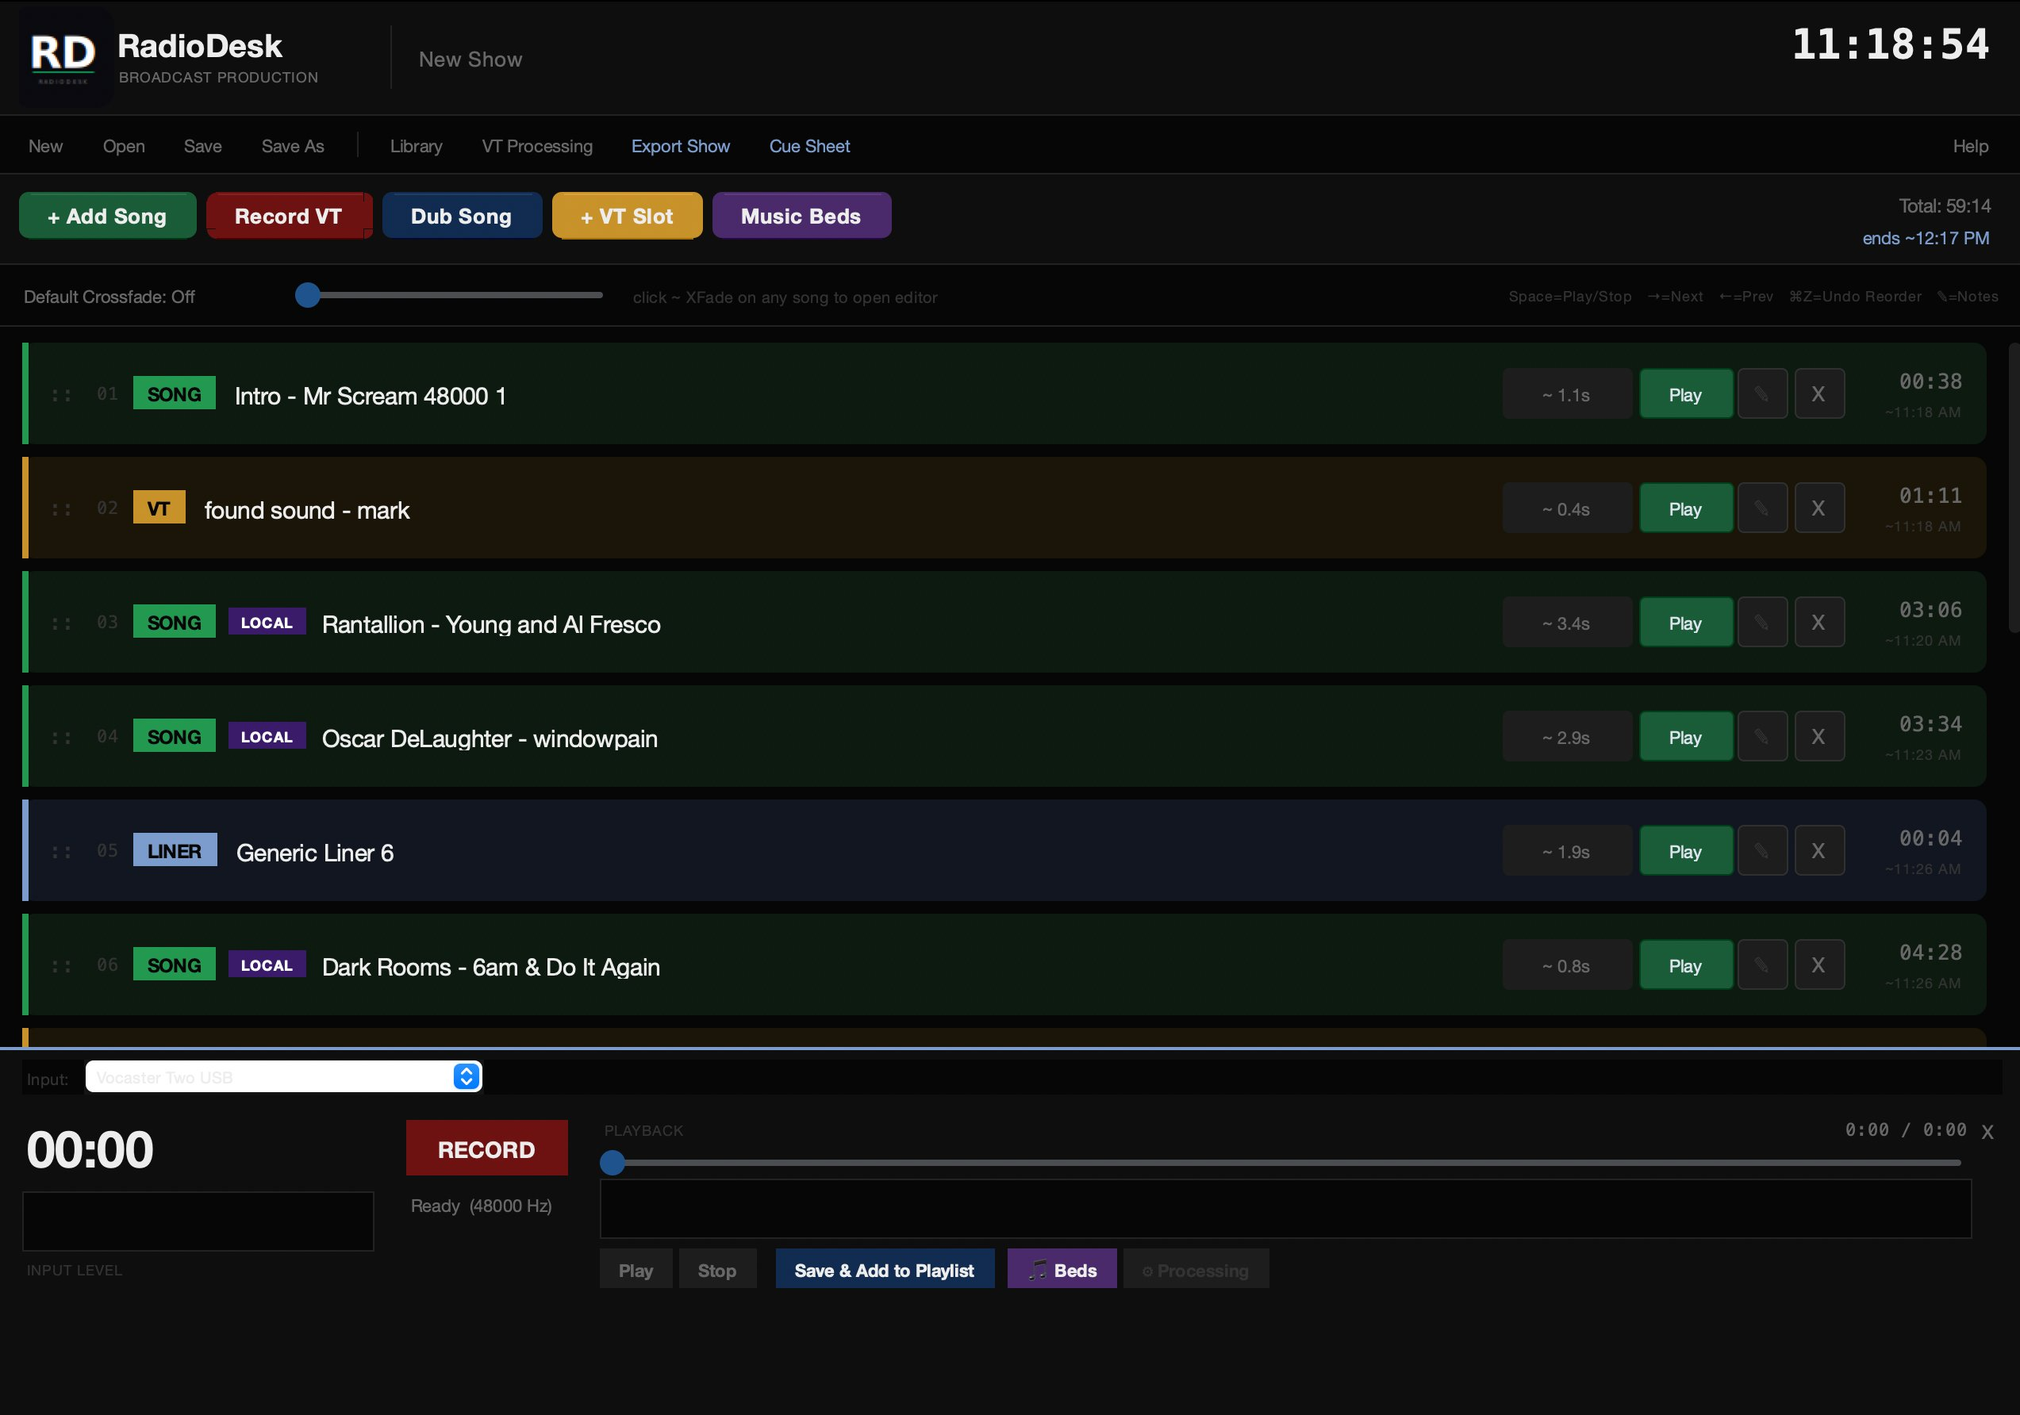
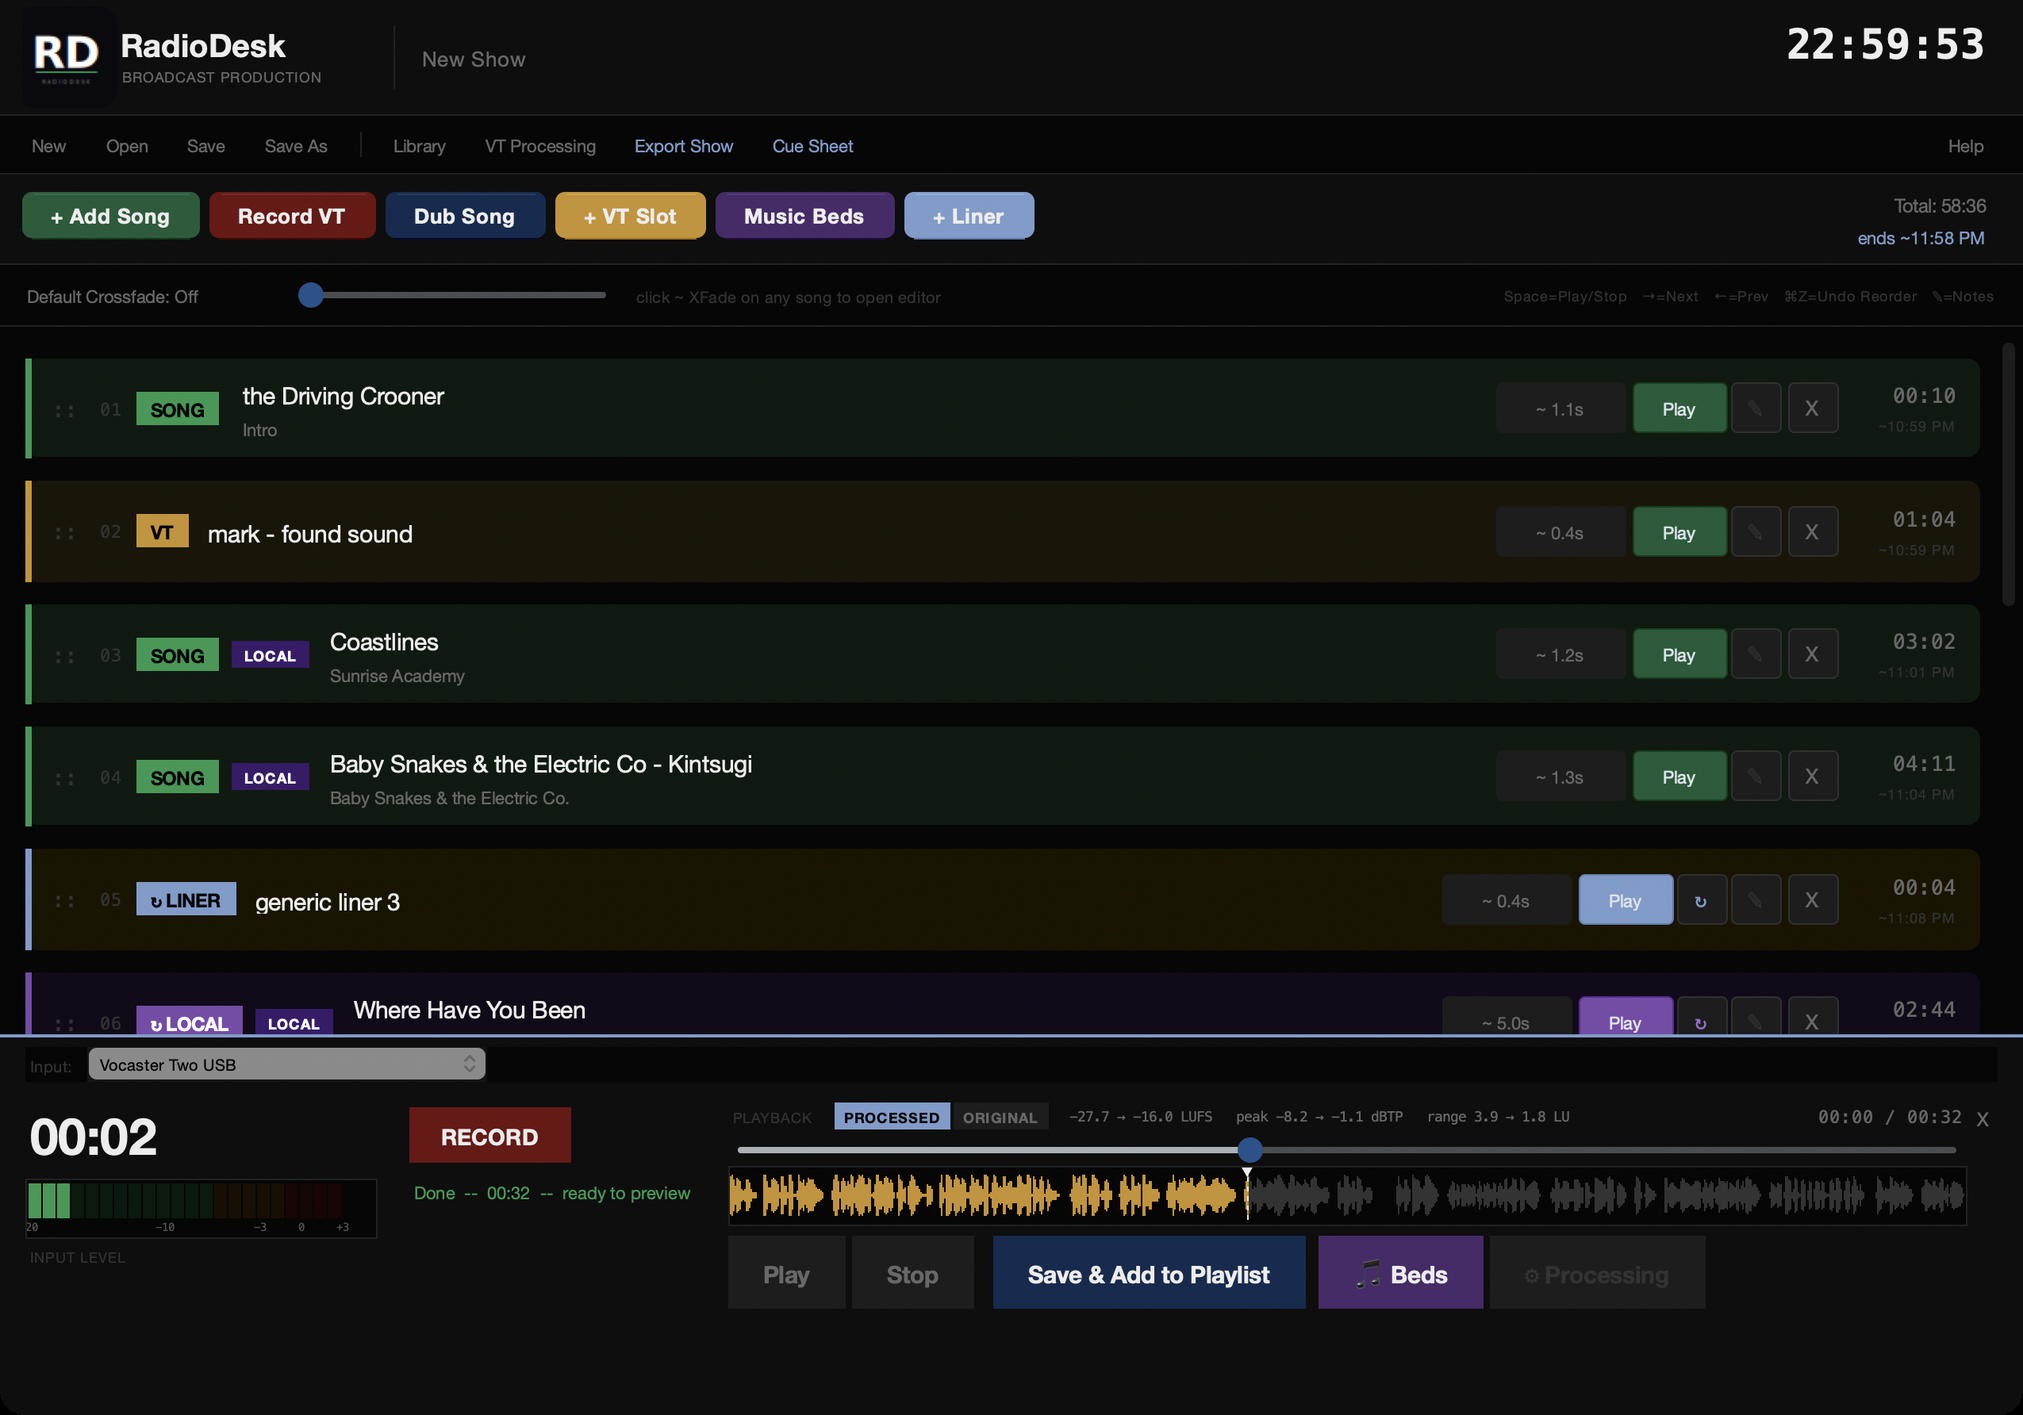
RadioDesk 1.2: voice processing, talk-break artist notes, new screenshots
- Homepage: three new feature cards (Broadcast Voice Processing, Processed
  vs. Original, Talk-Break Artist Notes); segue editor card describes the
  three-lane liner view; offline card notes the optional artist look-up.
- Screenshots: segue editor and recorder retaken from 1.2; new shots of the
  Voice Processing window and the talk-break notes popup.
- FAQ: new "Voice Processing & Artist Notes" section (six questions,
  including what the look-up sends), mirrored in the FAQ structured data.
- softwareVersion 1.0 -> 1.2.

diff --git a/faq.html b/faq.html
@@ -131,6 +131,54 @@
         "@type": "Answer",
         "text": "This can happen with large audio files on slower machines. Try closing other apps to free up memory. WAV files generally play more smoothly than MP3s because they don't require real-time decoding."
       }
+    },
+    {
+      "@type": "Question",
+      "name": "What does Voice Processing do to my voice tracks?",
+      "acceptedAnswer": {
+        "@type": "Answer",
+        "text": "It brings every voice track to the same loudness, steadies your level if you lean in or drift off the mic, removes rumble and room noise between phrases, softens harsh 's' sounds, and holds peaks under a ceiling so the track can't clip. You choose the loudness, how much compression, and a Natural, Bright or Broadcast tone. Open it from VT Processing in the menu bar or the Processing button in the recorder."
+      }
+    },
+    {
+      "@type": "Question",
+      "name": "Can I hear my voice track with and without processing?",
+      "acceptedAnswer": {
+        "@type": "Answer",
+        "text": "Yes. Your original recording is always kept. After a take, the recorder shows a PROCESSED and ORIGINAL switch — click either side, even while it's playing, to compare. It also shows the loudness, peak and range before and after. Whichever version is selected is the one that gets saved. If you change a processing setting, the take in the recorder is re-processed when you click Done, so you don't need to re-record."
+      }
+    },
+    {
+      "@type": "Question",
+      "name": "How do I match my voice level to my music?",
+      "acceptedAnswer": {
+        "@type": "Answer",
+        "text": "Load your show, open VT Processing, and click Match my show's music. RadioDesk measures the songs in your playlist and sets your voice one loudness unit above their average, so talk breaks sit just in front of the music. You can also set the loudness yourself with the slider; -16 LUFS suits most shows."
+      }
+    },
+    {
+      "@type": "Question",
+      "name": "What is the artist look-up, and what does it send over the internet?",
+      "acceptedAnswer": {
+        "@type": "Answer",
+        "text": "On any song row, the notes button can look up where the artist is from, their latest and upcoming releases, a short bio, recent stories and interviews, and tour-date links. It is off until you turn it on. When it's on, only the artist name and song title are sent — nothing about you, your library or your show. Facts come from MusicBrainz and Wikipedia; headlines come from Stereogum and the Dallas Observer. Results are saved on your Mac, so a song you play often is only looked up about once a week. Everything else in RadioDesk works without an internet connection."
+      }
+    },
+    {
+      "@type": "Question",
+      "name": "The artist info is wrong or missing. Why?",
+      "acceptedAnswer": {
+        "@type": "Answer",
+        "text": "The facts come from volunteer-edited sources, so brand-new and very local acts are sometimes missing or thin, and details can be out of date. If more than one artist shares a name, RadioDesk asks which one you mean instead of guessing — use Wrong artist? to choose again. Headlines are matched by name, so check the date and that the story is about your artist. Treat everything as a starting point and double-check before you say it on air."
+      }
+    },
+    {
+      "@type": "Question",
+      "name": "Can RadioDesk show upcoming concerts in my city?",
+      "acceptedAnswer": {
+        "@type": "Answer",
+        "text": "Set your market in the notes popup (for example, Dallas Fort Worth) and RadioDesk adds a one-click search for that artist's shows near you, plus a tour-dates link. These open in your web browser. There are also one-click searches for the artist on Stereogum, Pitchfork, SPIN, the Dallas Observer, D Magazine and Bandsintown."
+      }
     }
   ]
 }
@@ -245,6 +293,7 @@
     <a href="#playback" class="cat-btn">Playback &amp; Audio</a>
     <a href="#files" class="cat-btn">Files &amp; Formats</a>
     <a href="#library" class="cat-btn">Library &amp; Categories</a>
+    <a href="#voice-and-notes" class="cat-btn">Voice Processing &amp; Artist Notes</a>
     <a href="#troubleshooting" class="cat-btn">Troubleshooting</a>
   </div>
 
@@ -471,6 +520,59 @@
         <span class="faq-icon">+</span>
       </button>
       <div class="faq-a">Open the library, click <strong>✎</strong> on the song, and choose <strong>Local</strong> from the Category dropdown. Local songs also appear when you filter by the Local category and are eligible for Local category slots. Removing the Local category from a song removes it from the Local pool as well.</div>
+    </div>
+  </section>
+
+  <!-- VOICE PROCESSING & ARTIST NOTES -->
+  <section class="faq-section" id="voice-and-notes">
+    <h2 class="faq-section-title">Voice Processing &amp; Artist Notes</h2>
+
+    <div class="faq-item">
+      <button class="faq-q" onclick="toggle(this)">
+        <span class="faq-q-text">What does Voice Processing do to my voice tracks?</span>
+        <span class="faq-icon">+</span>
+      </button>
+      <div class="faq-a">It brings every voice track to the same loudness, steadies your level if you lean in or drift off the mic, removes rumble and room noise between phrases, softens harsh 's' sounds, and holds peaks under a ceiling so the track can't clip. You choose the loudness, how much compression, and a Natural, Bright or Broadcast tone. Open it from VT Processing in the menu bar or the Processing button in the recorder.</div>
+    </div>
+
+    <div class="faq-item">
+      <button class="faq-q" onclick="toggle(this)">
+        <span class="faq-q-text">Can I hear my voice track with and without processing?</span>
+        <span class="faq-icon">+</span>
+      </button>
+      <div class="faq-a">Yes. Your original recording is always kept. After a take, the recorder shows a PROCESSED and ORIGINAL switch — click either side, even while it's playing, to compare. It also shows the loudness, peak and range before and after. Whichever version is selected is the one that gets saved. If you change a processing setting, the take in the recorder is re-processed when you click Done, so you don't need to re-record.</div>
+    </div>
+
+    <div class="faq-item">
+      <button class="faq-q" onclick="toggle(this)">
+        <span class="faq-q-text">How do I match my voice level to my music?</span>
+        <span class="faq-icon">+</span>
+      </button>
+      <div class="faq-a">Load your show, open VT Processing, and click Match my show's music. RadioDesk measures the songs in your playlist and sets your voice one loudness unit above their average, so talk breaks sit just in front of the music. You can also set the loudness yourself with the slider; -16 LUFS suits most shows.</div>
+    </div>
+
+    <div class="faq-item">
+      <button class="faq-q" onclick="toggle(this)">
+        <span class="faq-q-text">What is the artist look-up, and what does it send over the internet?</span>
+        <span class="faq-icon">+</span>
+      </button>
+      <div class="faq-a">On any song row, the notes button can look up where the artist is from, their latest and upcoming releases, a short bio, recent stories and interviews, and tour-date links. It is off until you turn it on. When it's on, only the artist name and song title are sent — nothing about you, your library or your show. Facts come from MusicBrainz and Wikipedia; headlines come from Stereogum and the Dallas Observer. Results are saved on your Mac, so a song you play often is only looked up about once a week. Everything else in RadioDesk works without an internet connection.</div>
+    </div>
+
+    <div class="faq-item">
+      <button class="faq-q" onclick="toggle(this)">
+        <span class="faq-q-text">The artist info is wrong or missing. Why?</span>
+        <span class="faq-icon">+</span>
+      </button>
+      <div class="faq-a">The facts come from volunteer-edited sources, so brand-new and very local acts are sometimes missing or thin, and details can be out of date. If more than one artist shares a name, RadioDesk asks which one you mean instead of guessing — use Wrong artist? to choose again. Headlines are matched by name, so check the date and that the story is about your artist. Treat everything as a starting point and double-check before you say it on air.</div>
+    </div>
+
+    <div class="faq-item">
+      <button class="faq-q" onclick="toggle(this)">
+        <span class="faq-q-text">Can RadioDesk show upcoming concerts in my city?</span>
+        <span class="faq-icon">+</span>
+      </button>
+      <div class="faq-a">Set your market in the notes popup (for example, Dallas Fort Worth) and RadioDesk adds a one-click search for that artist's shows near you, plus a tour-dates link. These open in your web browser. There are also one-click searches for the artist on Stereogum, Pitchfork, SPIN, the Dallas Observer, D Magazine and Bandsintown.</div>
     </div>
   </section>
 

diff --git a/index.html b/index.html
@@ -32,7 +32,7 @@
     "priceCurrency": "USD"
   },
   "description": "RadioDesk is professional broadcast production software for Mac. Features include a DAW-style crossfade and segue editor, waveform display with playhead, multi-track audio management, cue sheet export, and local artist tagging. One-time purchase, no subscription.",
-  "softwareVersion": "1.0",
+  "softwareVersion": "1.2",
   "fileSize": "500MB",
   "downloadUrl": "https://radiodesk.gumroad.com/l/okdkvp",
   "screenshot": "https://radiodesk.app/screenshot.png",
@@ -157,6 +157,8 @@
   .screenshot-link:hover::after { opacity: 1; }
   .screenshot-img { width: 100%; border: 1px solid var(--border); display: block; border-radius: 4px; transition: border-color 0.2s; }
   .screenshot-link:hover .screenshot-img { border-color: var(--green); }
+  /* tall pop-up windows: thumbnail cropped to the same shape as the others; the lightbox shows the whole thing */
+  .screenshot-img.portrait { aspect-ratio: 2550 / 1784; object-fit: cover; object-position: top center; }
   .screenshot-cap { font-family: 'DM Mono', monospace; font-size: 10px; letter-spacing: 1px; color: var(--gray); }
 
   /* LIGHTBOX */
@@ -292,7 +294,7 @@
     <article class="feature-card">
       <div class="feature-num">01</div>
       <h3 class="feature-title">DAW-Style Crossfade &amp; Segue Editor</h3>
-      <p class="feature-desc">Set in and out points visually, control duck depth, and preview transitions before your show. The same smooth handoff as a professional broadcast console.</p>
+      <p class="feature-desc">Drag waveforms to set exactly where the next element starts, then preview the transition before your show. Click a liner or sweeper and a third lane appears, so you can set the way in and the way out in one view. What you preview is what you export.</p>
     </article>
     <article class="feature-card">
       <div class="feature-num">02</div>
@@ -317,7 +319,7 @@
     <article class="feature-card">
       <div class="feature-num">06</div>
       <h3 class="feature-title">Native Mac App · No Subscription</h3>
-      <p class="feature-desc">One-time purchase. No account required, no cloud dependency, no monthly fee. RadioDesk lives on your machine and works offline, always.</p>
+      <p class="feature-desc">One-time purchase. No account required, no cloud dependency, no monthly fee. RadioDesk lives on your machine and works offline. The only feature that goes online is the optional artist look-up, and it stays off until you turn it on.</p>
     </article>
     <article class="feature-card">
       <div class="feature-num">07</div>
@@ -349,6 +351,21 @@
       <h3 class="feature-title">Play Count</h3>
       <p class="feature-desc">Every song tracks how many times it's been added to a show. Sort your library by play count to see what's getting heavy rotation — and what's been sitting on the shelf.</p>
     </article>
+    <article class="feature-card">
+      <div class="feature-num">13</div>
+      <h3 class="feature-title">Broadcast Voice Processing</h3>
+      <p class="feature-desc">Every voice track lands at the same loudness, with your level steadied, the room cleaned up and peaks held under a ceiling so it can't clip. Choose a Natural, Bright or Broadcast tone, and match your voice to your show's music with one click.</p>
+    </article>
+    <article class="feature-card">
+      <div class="feature-num">14</div>
+      <h3 class="feature-title">Processed vs. Original</h3>
+      <p class="feature-desc">Your raw take is always kept. Flip between PROCESSED and ORIGINAL while it plays, see the before-and-after loudness and peak numbers, and save whichever one you prefer. Music beds are kept separate from your voice, so processing never pumps the music.</p>
+    </article>
+    <article class="feature-card">
+      <div class="feature-num">15</div>
+      <h3 class="feature-title">Talk-Break Artist Notes</h3>
+      <p class="feature-desc">Open the notes on any song to see where the artist is from, their latest and upcoming releases, a short bio, recent stories and interviews, and tour-date links for your market. Add the facts to your notes with one click. Off until you turn it on.</p>
+    </article>
   </div>
 </section>
 
@@ -367,16 +384,28 @@
       <figcaption class="screenshot-cap">Main playlist interface</figcaption>
     </figure>
     <figure class="screenshot-fig">
-      <a class="screenshot-link" onclick="openLightbox('screenshot-segue.png','Segue Editor — set crossfade overlap and duck depth visually')">
-        <img src="screenshot-segue.png" alt="RadioDesk Segue Editor showing waveform overlap, duck depth slider at -14dB, and Preview Segue button" class="screenshot-img">
+      <a class="screenshot-link" onclick="openLightbox('screenshot-segue.png','Segue Editor — a liner between two songs, both transitions in one view')">
+        <img src="screenshot-segue.png" alt="RadioDesk Segue Editor showing three waveform lanes: the end of a song, a liner, and the start of the next song, with overlap handles and a Preview Segue button" class="screenshot-img">
       </a>
-      <figcaption class="screenshot-cap">Segue Editor — set crossfade overlap and duck depth visually</figcaption>
+      <figcaption class="screenshot-cap">Segue Editor — a liner between two songs, both transitions in one view</figcaption>
     </figure>
     <figure class="screenshot-fig">
-      <a class="screenshot-link" onclick="openLightbox('screenshot-record.png','Voice track recording panel')">
-        <img src="screenshot-record.png" alt="RadioDesk Record VT panel with input device selector, record button, and waveform playback" class="screenshot-img">
+      <a class="screenshot-link" onclick="openLightbox('screenshot-record.png','Voice track recorder — processed vs. original, with before and after loudness')">
+        <img src="screenshot-record.png" alt="RadioDesk Record VT panel showing a recorded take with a PROCESSED and ORIGINAL switch and loudness, peak and range measurements before and after processing" class="screenshot-img">
       </a>
-      <figcaption class="screenshot-cap">Voice track recording panel</figcaption>
+      <figcaption class="screenshot-cap">Voice track recorder — processed vs. original, with before and after loudness</figcaption>
+    </figure>
+    <figure class="screenshot-fig">
+      <a class="screenshot-link" onclick="openLightbox('screenshot-voice.png','Voice processing — loudness, compression, tone and clean-up')">
+        <img src="screenshot-voice.png" alt="RadioDesk Voice Track Processing settings: loudness target, compression amount, Natural, Bright and Broadcast tone, low cut, noise reduction, de-esser and peak ceiling" class="screenshot-img portrait">
+      </a>
+      <figcaption class="screenshot-cap">Voice processing — loudness, compression, tone and clean-up</figcaption>
+    </figure>
+    <figure class="screenshot-fig">
+      <a class="screenshot-link" onclick="openLightbox('screenshot-notes.png','Talk-break notes — artist facts, stories and tour-date links')">
+        <img src="screenshot-notes.png" alt="RadioDesk talk-break notes popup showing an artist bio, links, tour dates for the host's market, recent Stereogum headlines, and the host's own notes" class="screenshot-img portrait">
+      </a>
+      <figcaption class="screenshot-cap">Talk-break notes — artist facts, stories and tour-date links</figcaption>
     </figure>
   </div>
 </section>
